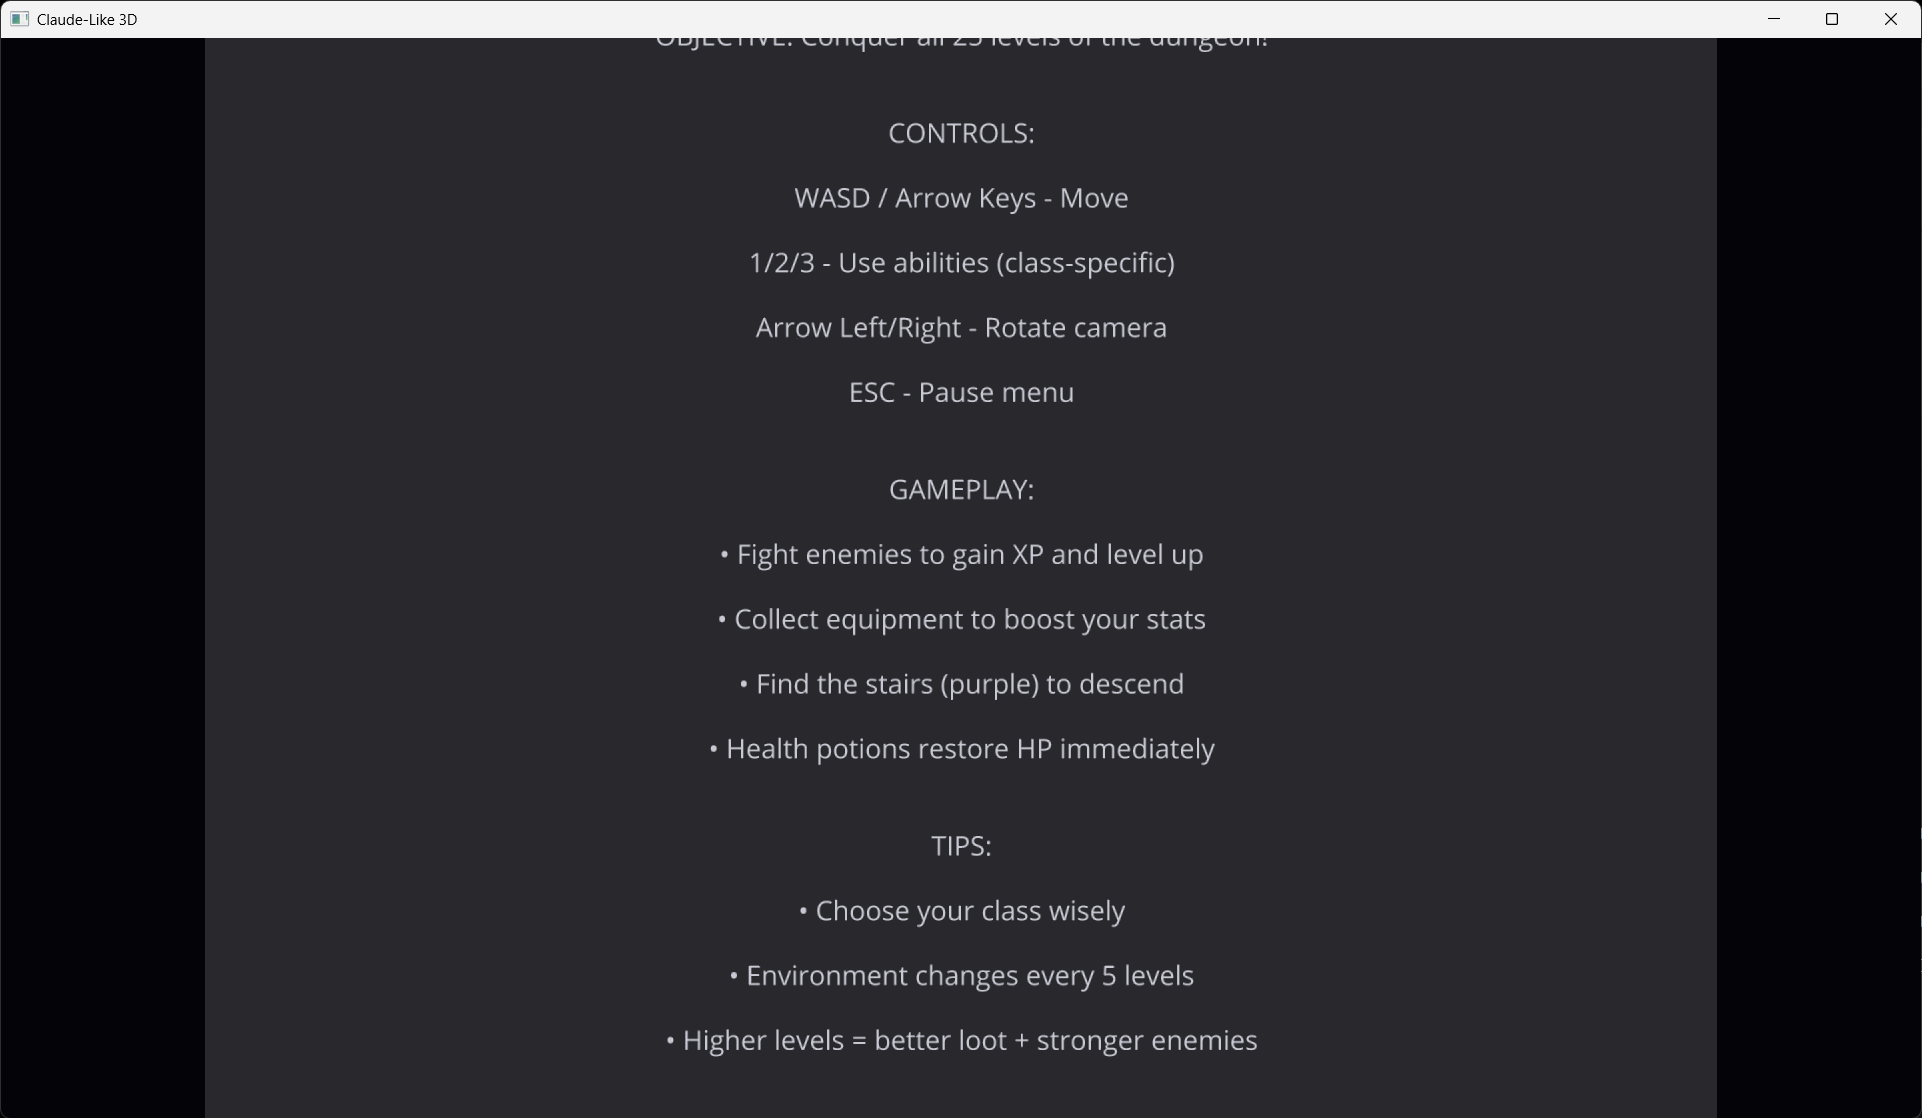
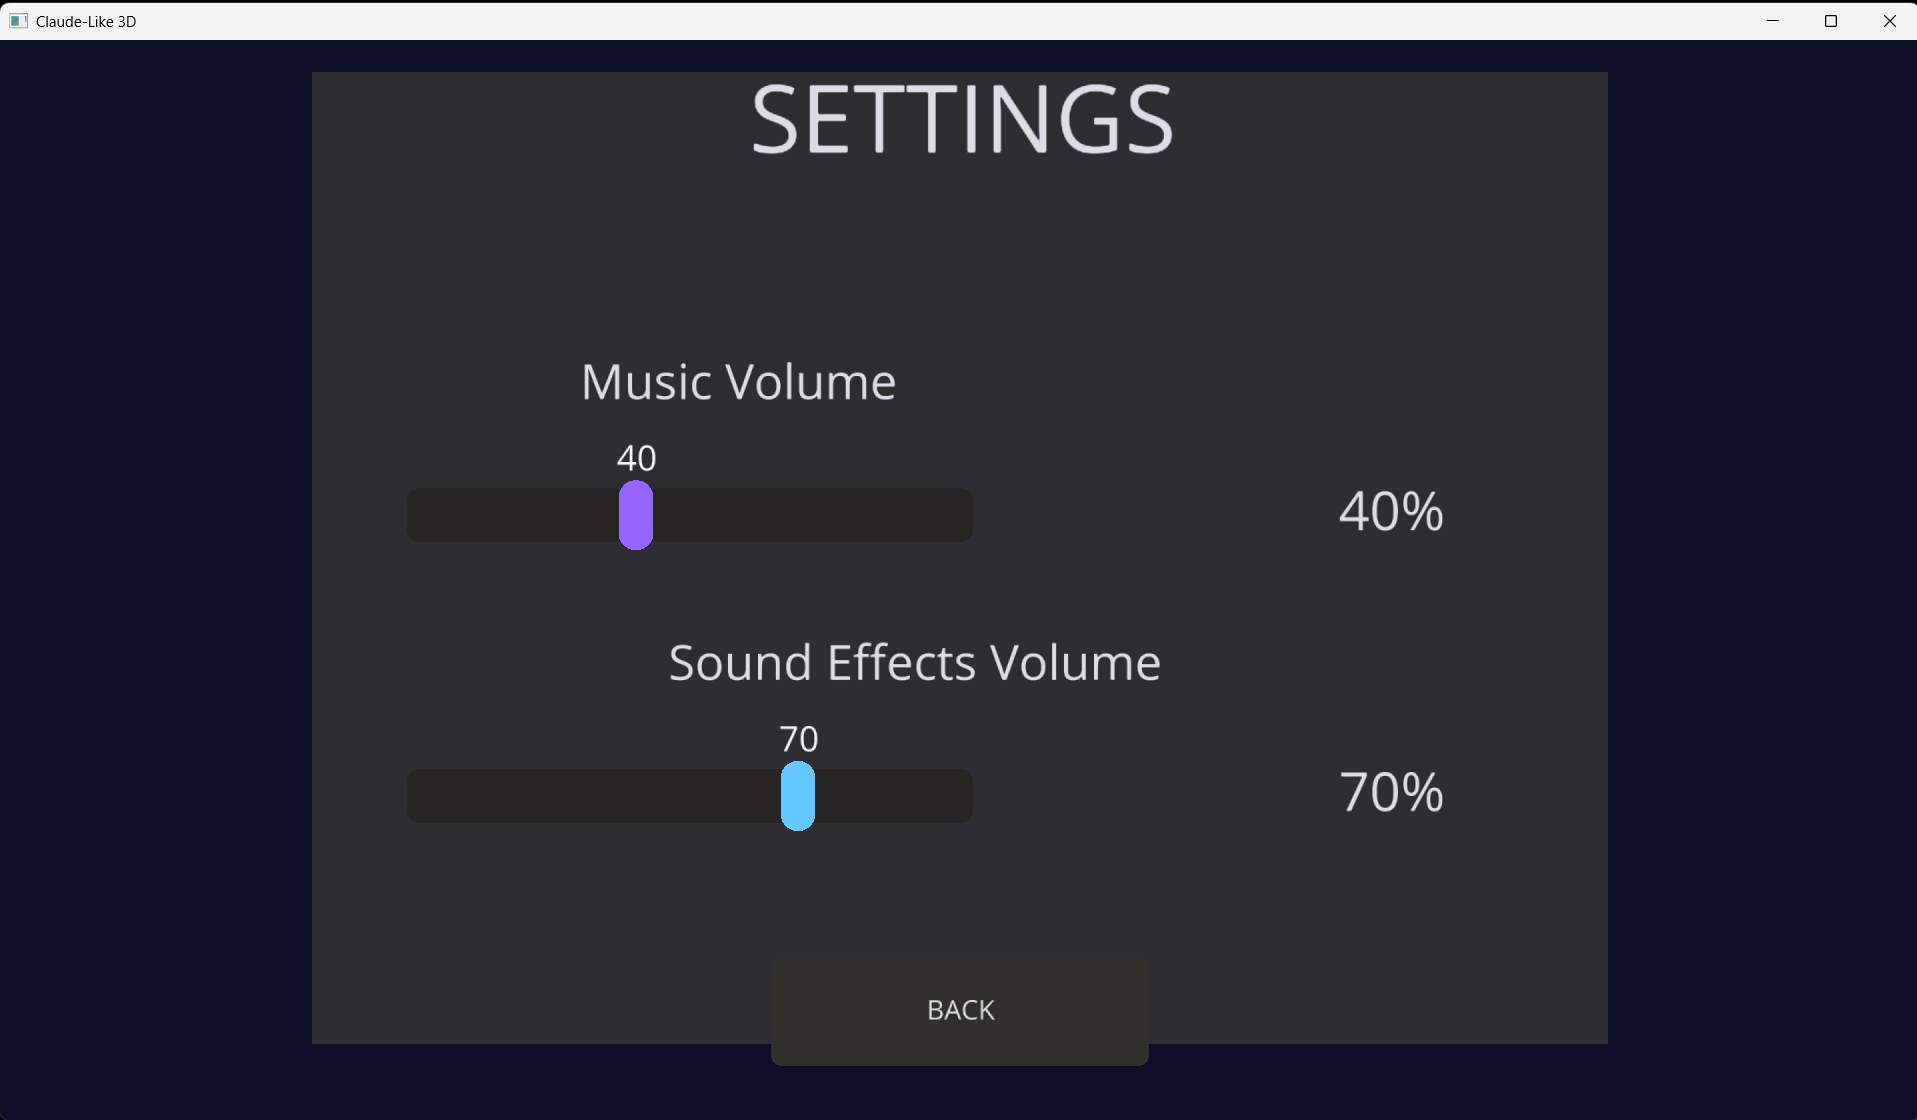
better settings

diff --git a/ui/screens/settings_screen_3d.py b/ui/screens/settings_screen_3d.py
@@ -84,8 +84,8 @@ class Settings3D(Entity):
         # Music Volume Section
         music_label = Text(
             text="Music Volume",
-            position=(-0.5, 0.18, -0.1),  # Left-aligned with proper spacing
-            origin=(-1, 0),  # Left-aligned origin
+            position=(0, 0.18, -0.1),  # Centered
+            origin=(0, 0),  # Center origin
             scale=1.8,
             color=color.rgb(0.863, 0.863, 0.902),
             parent=camera.ui
@@ -99,23 +99,21 @@ class Settings3D(Entity):
             step=1,
             height=0.05,  # Thicker for better visibility
             width=0.65,  # Slightly narrower for better layout
-            position=(-0.5, 0.06, -0.1),  # Aligned under label
+            position=(-0.35, 0.06, -0.1),  # Centered with room for percentage
             parent=camera.ui,
+            text=False,  # Disable built-in value display
             on_value_changed=self._on_music_volume_changed
         )
         # Dungeon-styled slider colors
         self.music_slider.knob.color = color.rgb(0.588, 0.392, 1.0)  # Purple knob
         self.music_slider.knob.scale *= 1.3  # Larger knob
         self.music_slider.bg.color = color.rgb(0.157, 0.149, 0.137)  # Darker stone background
-        # Hide default slider text to avoid conflicts
-        if hasattr(self.music_slider, 'text'):
-            self.music_slider.text.enabled = False
         self.ui_elements.append(self.music_slider)
 
         # Music value display
         self.music_value_text = Text(
             text=f"{int(self.audio.music_volume * 100)}%",
-            position=(0.3, 0.06, -0.1),  # Right-aligned with slider
+            position=(0.35, 0.06, -0.1),  # To the right of slider
             origin=(-1, 0),  # Left origin for consistent spacing
             scale=2.0,  # Larger for better visibility
             color=color.rgb(0.863, 0.863, 0.902),
@@ -126,8 +124,8 @@ class Settings3D(Entity):
         # SFX Volume Section
         sfx_label = Text(
             text="Sound Effects Volume",
-            position=(-0.5, -0.08, -0.1),  # Consistent spacing with music section
-            origin=(-1, 0),  # Left-aligned origin
+            position=(0, -0.08, -0.1),  # Centered
+            origin=(0, 0),  # Center origin
             scale=1.8,
             color=color.rgb(0.863, 0.863, 0.902),
             parent=camera.ui
@@ -141,23 +139,21 @@ class Settings3D(Entity):
             step=1,
             height=0.05,  # Thicker for better visibility
             width=0.65,  # Match music slider width
-            position=(-0.5, -0.20, -0.1),  # Aligned under label with consistent spacing
+            position=(-0.35, -0.20, -0.1),  # Centered with room for percentage
             parent=camera.ui,
+            text=False,  # Disable built-in value display
             on_value_changed=self._on_sfx_volume_changed
         )
         # Dungeon-styled slider colors
         self.sfx_slider.knob.color = color.rgb(0.392, 0.784, 1.0)  # Blue knob
         self.sfx_slider.knob.scale *= 1.3  # Larger knob
         self.sfx_slider.bg.color = color.rgb(0.157, 0.149, 0.137)  # Darker stone background
-        # Hide default slider text to avoid conflicts
-        if hasattr(self.sfx_slider, 'text'):
-            self.sfx_slider.text.enabled = False
         self.ui_elements.append(self.sfx_slider)
 
         # SFX value display
         self.sfx_value_text = Text(
             text=f"{int(self.audio.sfx_volume * 100)}%",
-            position=(0.3, -0.20, -0.1),  # Right-aligned with slider, consistent with music
+            position=(0.35, -0.20, -0.1),  # To the right of slider
             origin=(-1, 0),  # Left origin for consistent spacing
             scale=2.0,  # Match music value scale
             color=color.rgb(0.863, 0.863, 0.902),
